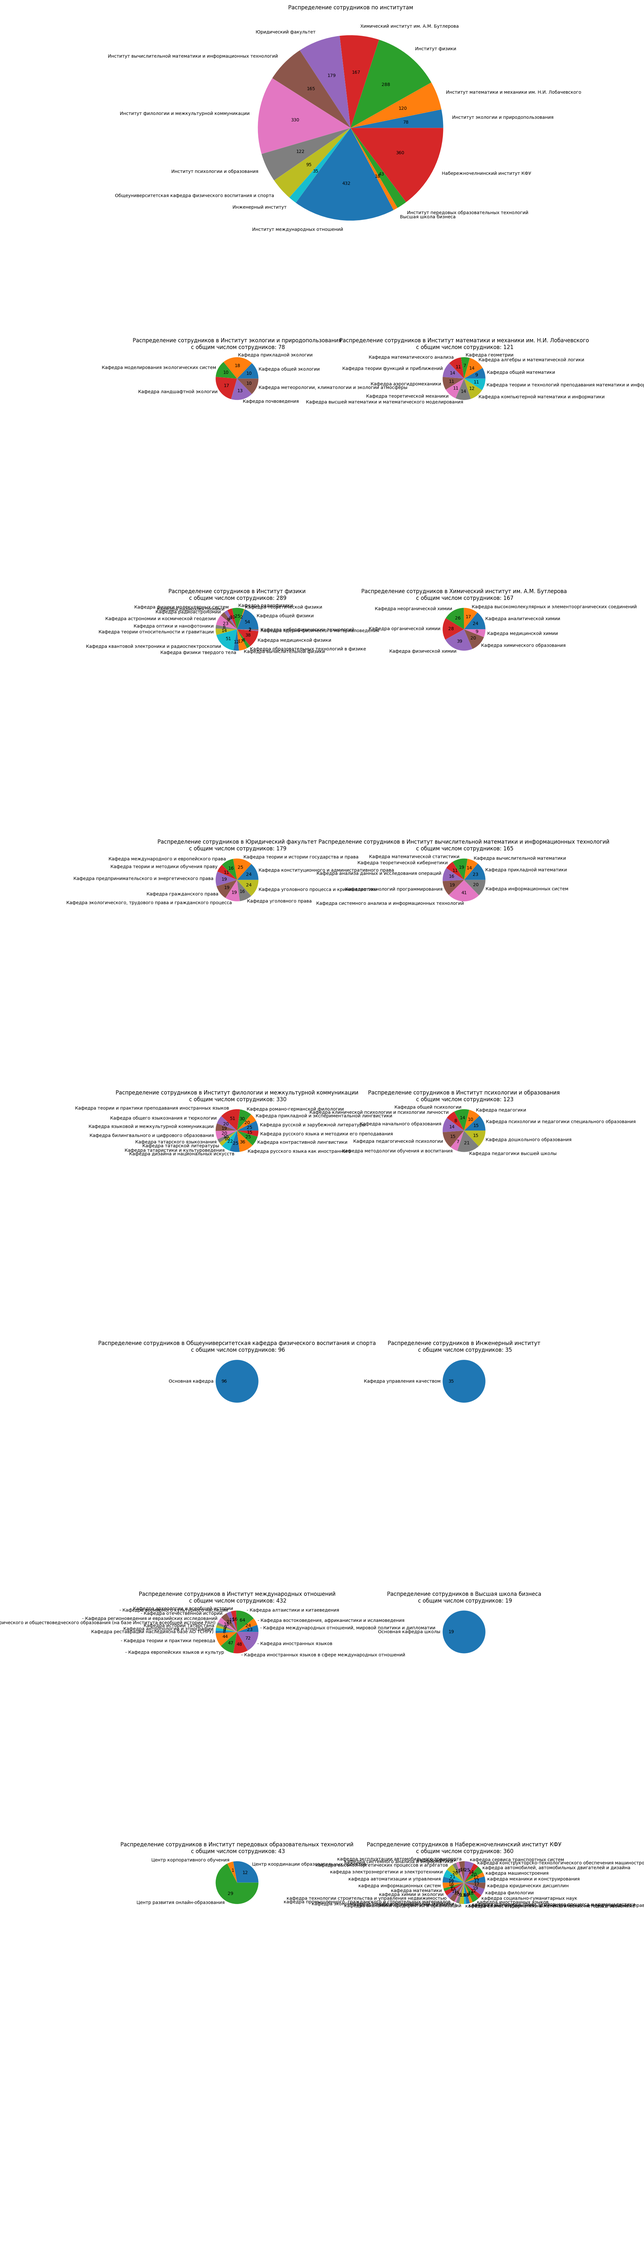
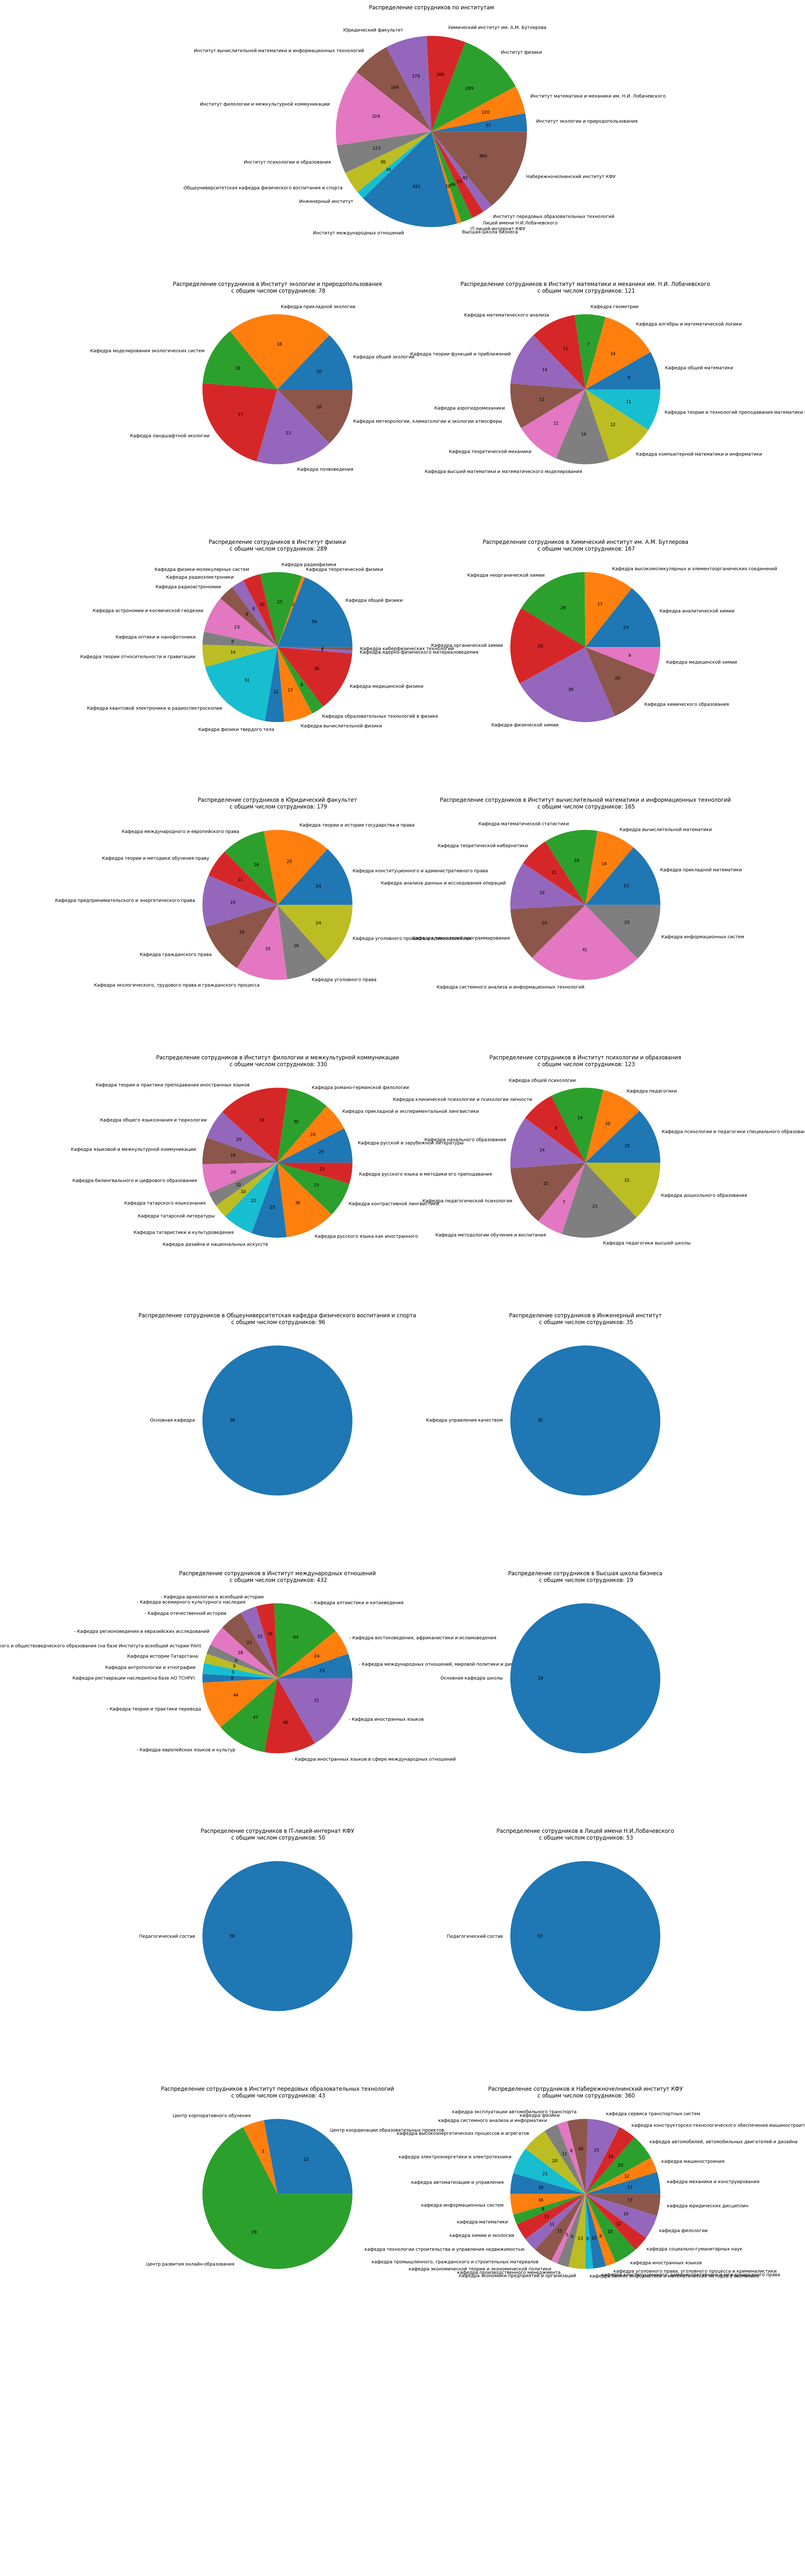
visualization

diff --git a/vasia.py b/vasia.py
@@ -39,7 +39,7 @@ def create_visualization(data):
                           for institute_name, cathedras in general_counter.items()]
     # Создаем фигуру
     fig = plt.figure(constrained_layout=True)
-    fig.set_size_inches(20, 10 * ((len(institutes) + 1) // 2))
+    fig.set_size_inches(25, 10 * ((len(institutes) + 1) // 2))
     # Размечаем фигуру
     gs = GridSpec(2 + (len(institutes) + 1) // 2, 2, figure=fig)
 
